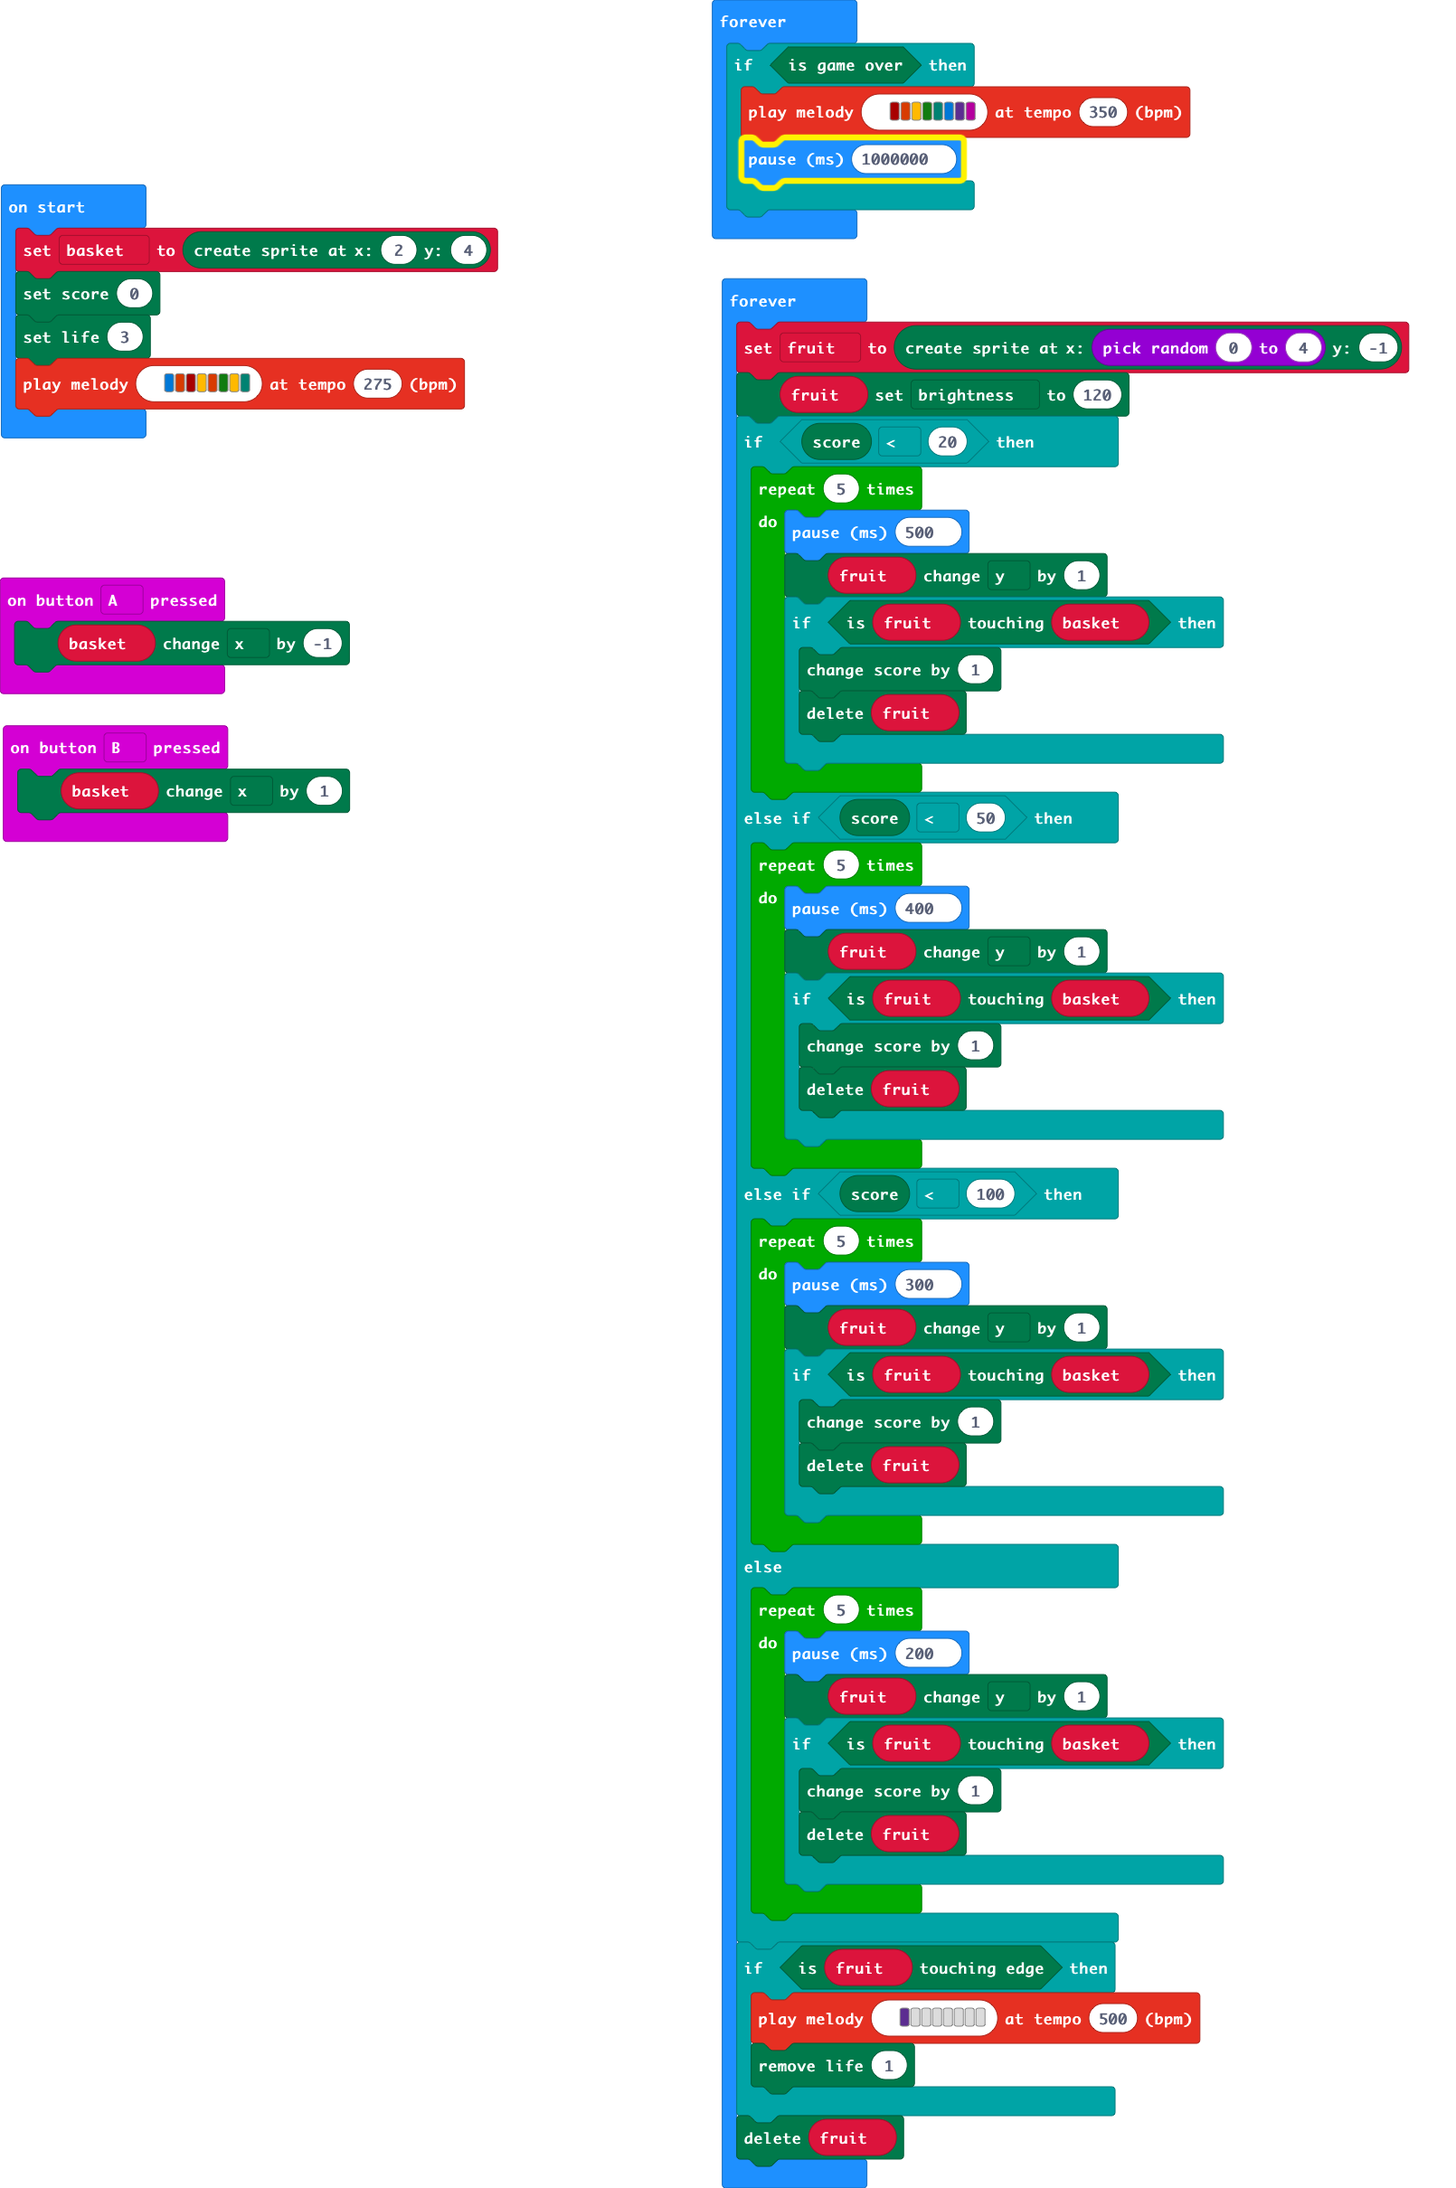
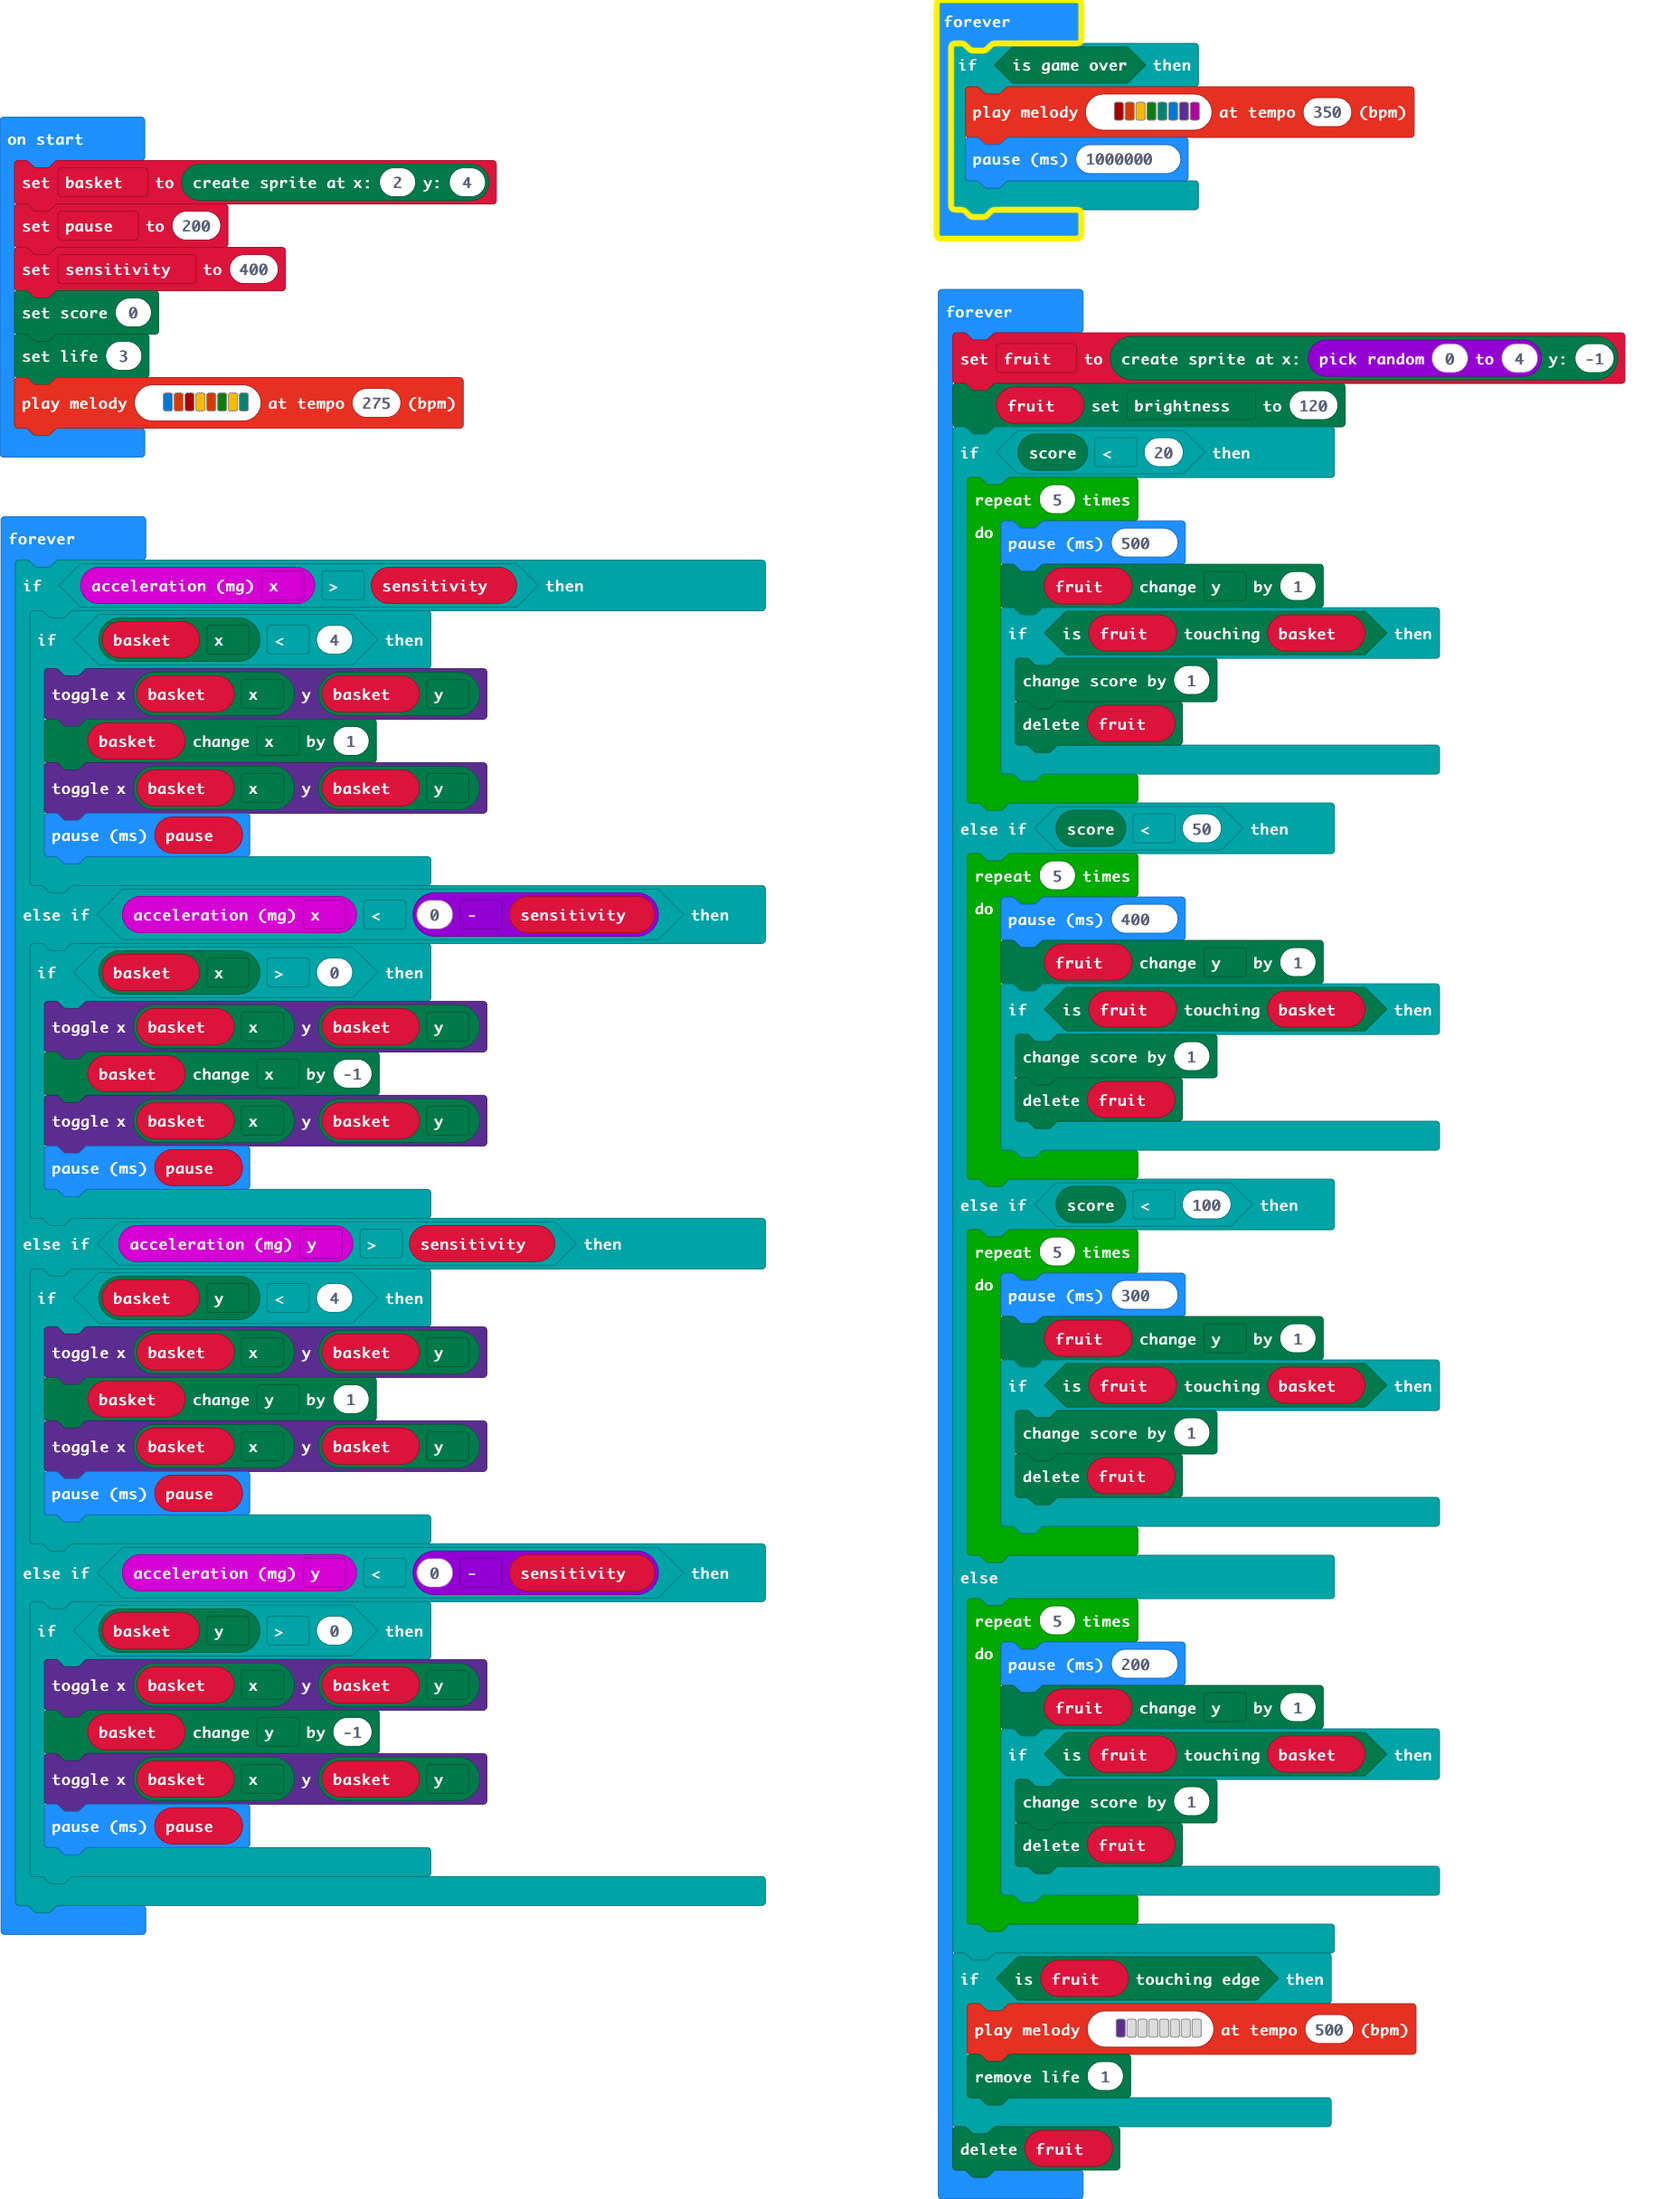
Change game mechanic

diff --git a/main.ts b/main.ts
@@ -1,12 +1,7 @@
-input.onButtonPressed(Button.A, function () {
-    basket.change(LedSpriteProperty.X, -1)
-})
-input.onButtonPressed(Button.B, function () {
-    basket.change(LedSpriteProperty.X, 1)
-})
 let fruit: game.LedSprite = null
-let basket: game.LedSprite = null
-basket = game.createSprite(2, 4)
+let basket = game.createSprite(2, 4)
+let pause2 = 200
+let sensitivity = 400
 game.setScore(0)
 game.setLife(3)
 music.playMelody("E B C5 A B G A F ", 275)
@@ -61,4 +56,35 @@ basic.forever(function () {
         game.removeLife(1)
     }
     fruit.delete()
+})
+basic.forever(function () {
+    if (input.acceleration(Dimension.X) > sensitivity) {
+        if (basket.get(LedSpriteProperty.X) < 4) {
+            led.toggle(basket.get(LedSpriteProperty.X), basket.get(LedSpriteProperty.Y))
+            basket.change(LedSpriteProperty.X, 1)
+            led.toggle(basket.get(LedSpriteProperty.X), basket.get(LedSpriteProperty.Y))
+            basic.pause(pause2)
+        }
+    } else if (input.acceleration(Dimension.X) < 0 - sensitivity) {
+        if (basket.get(LedSpriteProperty.X) > 0) {
+            led.toggle(basket.get(LedSpriteProperty.X), basket.get(LedSpriteProperty.Y))
+            basket.change(LedSpriteProperty.X, -1)
+            led.toggle(basket.get(LedSpriteProperty.X), basket.get(LedSpriteProperty.Y))
+            basic.pause(pause2)
+        }
+    } else if (input.acceleration(Dimension.Y) > sensitivity) {
+        if (basket.get(LedSpriteProperty.Y) < 4) {
+            led.toggle(basket.get(LedSpriteProperty.X), basket.get(LedSpriteProperty.Y))
+            basket.change(LedSpriteProperty.Y, 1)
+            led.toggle(basket.get(LedSpriteProperty.X), basket.get(LedSpriteProperty.Y))
+            basic.pause(pause2)
+        }
+    } else if (input.acceleration(Dimension.Y) < 0 - sensitivity) {
+        if (basket.get(LedSpriteProperty.Y) > 0) {
+            led.toggle(basket.get(LedSpriteProperty.X), basket.get(LedSpriteProperty.Y))
+            basket.change(LedSpriteProperty.Y, -1)
+            led.toggle(basket.get(LedSpriteProperty.X), basket.get(LedSpriteProperty.Y))
+            basic.pause(pause2)
+        }
+    }
 })

diff --git a/main.py b/main.py
@@ -11,18 +11,48 @@ basket: game.LedSprite = None
 basket = game.create_sprite(2, 4)
 game.set_score(0)
 game.set_life(3)
+music.play_melody("E B C5 A B G A F ", 275)
 
 def on_forever():
+    if game.is_game_over():
+        music.play_melody("C5 B A G F E D C ", 350)
+        basic.pause(1000000)
+basic.forever(on_forever)
+
+def on_forever2():
     global fruit
     fruit = game.create_sprite(randint(0, 4), -1)
-    fruit.change(LedSpriteProperty.BRIGHTNESS, 200)
-    for index in range(5):
-        basic.pause(500)
-        fruit.change(LedSpriteProperty.Y, 1)
-        if fruit.is_touching(basket):
-            game.add_score(1)
-            fruit.delete()
+    fruit.set(LedSpriteProperty.BRIGHTNESS, 120)
+    if game.score() < 20:
+        for index in range(5):
+            basic.pause(500)
+            fruit.change(LedSpriteProperty.Y, 1)
+            if fruit.is_touching(basket):
+                game.add_score(1)
+                fruit.delete()
+    elif game.score() < 50:
+        for index2 in range(5):
+            basic.pause(400)
+            fruit.change(LedSpriteProperty.Y, 1)
+            if fruit.is_touching(basket):
+                game.add_score(1)
+                fruit.delete()
+    elif game.score() < 100:
+        for index3 in range(5):
+            basic.pause(300)
+            fruit.change(LedSpriteProperty.Y, 1)
+            if fruit.is_touching(basket):
+                game.add_score(1)
+                fruit.delete()
+    else:
+        for index4 in range(5):
+            basic.pause(200)
+            fruit.change(LedSpriteProperty.Y, 1)
+            if fruit.is_touching(basket):
+                game.add_score(1)
+                fruit.delete()
     if fruit.is_touching_edge():
+        music.play_melody("D - - - - - - - ", 500)
         game.remove_life(1)
     fruit.delete()
-basic.forever(on_forever)
+basic.forever(on_forever2)
